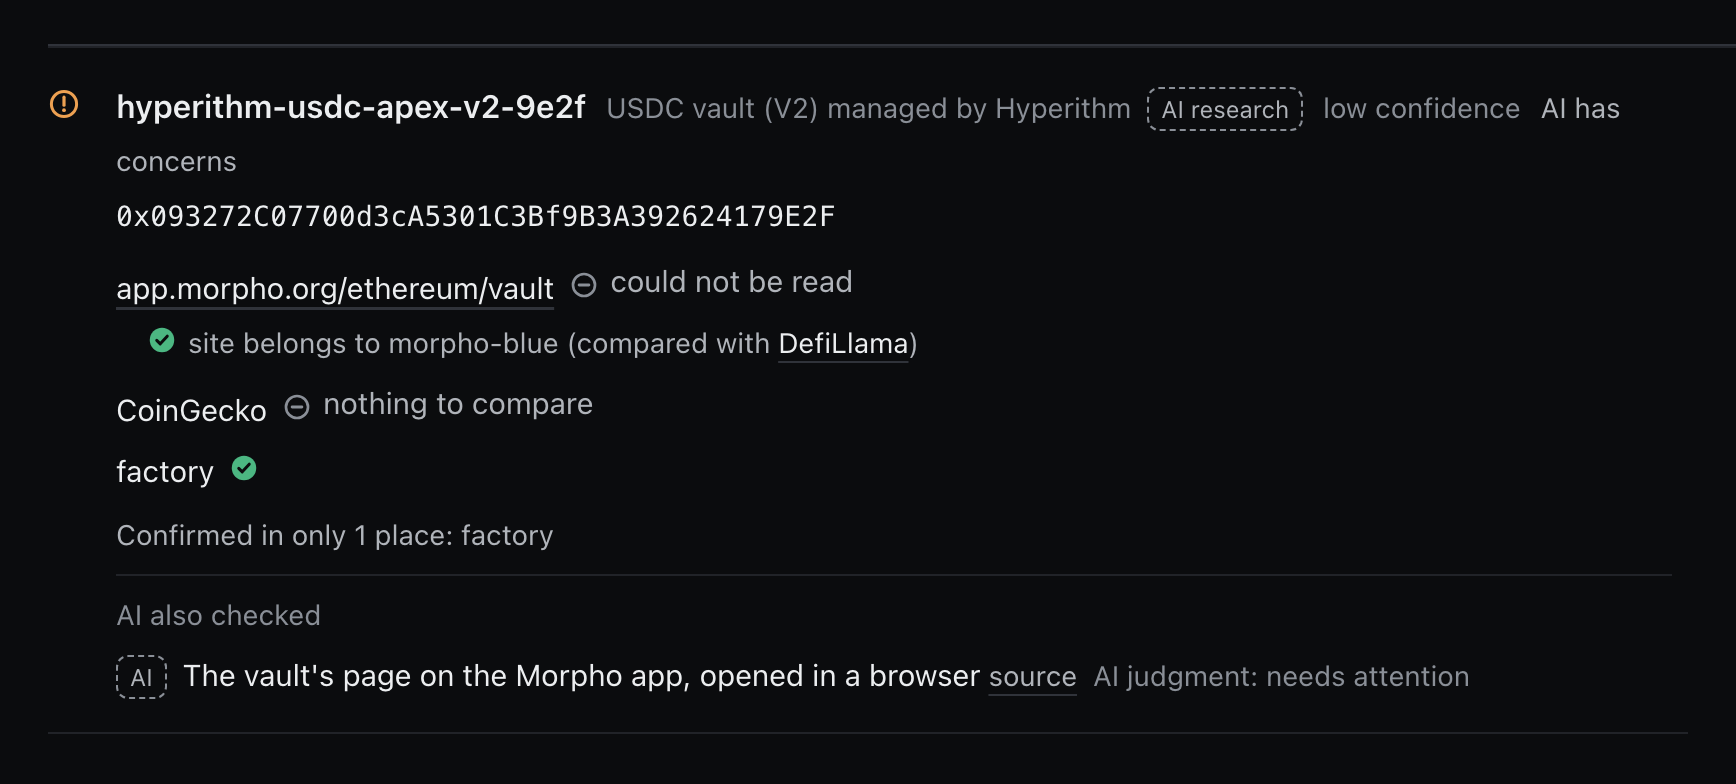
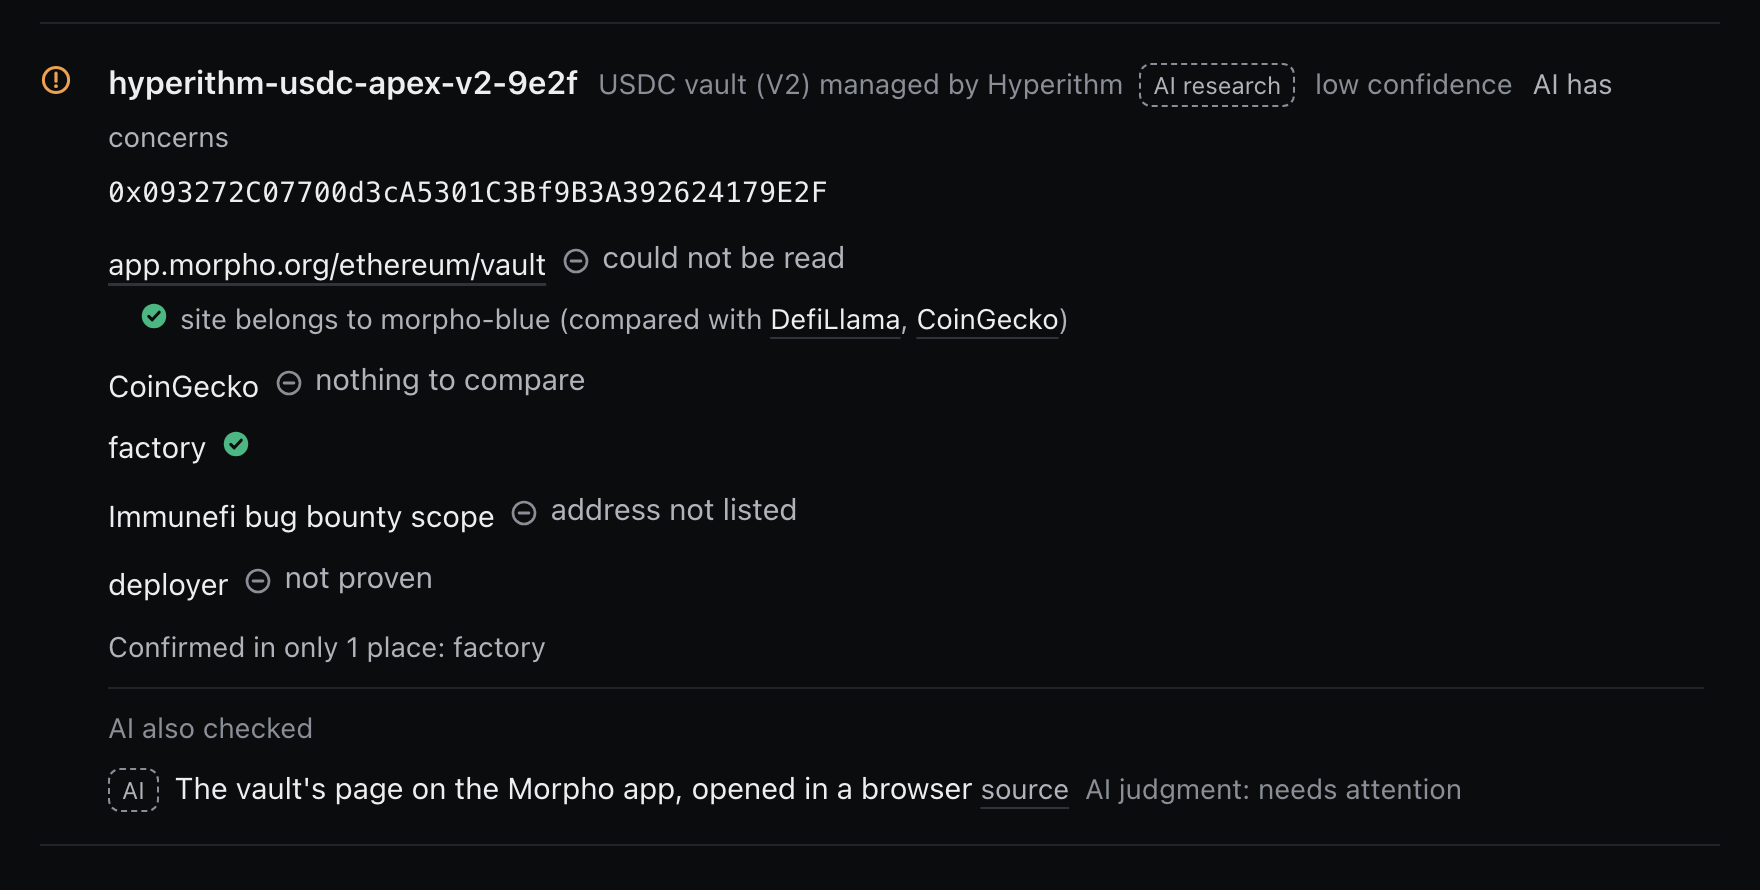
Reshoot the address crops from the reports recorded after #117

diff --git a/README.md b/README.md
@@ -100,13 +100,13 @@ The report shows what the transaction will do and where every fact came from. Te
 
 ![The fields of usdc.approve in the report: spender is fixed to general-adapter-1 with its full address, and value is the amount you fill in](docs/readme/report-fields.png)
 
-**Every address.** Where it was found, whether that site belongs to the protocol, and whether CoinGecko and the factory agree. This crop is from the Steakhouse vault's report.
+**Every address.** Each place it was found, whether that site belongs to the protocol, and whether the newest version still lists it. This crop is from the CoW swap report, where CoW's settlement contract is confirmed in five places.
 
-![An address the report confirmed in three places: the official page, whose site DefiLlama lists for the protocol, CoinGecko, and the factory](docs/readme/report-address.png)
+![An address the report confirmed in five places: two pages on CoW's GitHub, whose organization Immunefi ties to the protocol, each still listing it at the newest version; Immunefi's bug bounty scope; CoW's SDK on npm; and the deployer, which also deployed another confirmed CoW contract](docs/readme/report-address.png)
 
 Weak evidence is shown, not hidden. The Hyperithm vault was confirmed only by its factory, so the report flags it and lists it under To review (待確認 in the Traditional Chinese report), with the AI's suggestion: open the vault from the Morpho app's list, compare the address, and send a small amount first.
 
-![An address confirmed in only one place, flagged with low confidence](docs/readme/report-address-flagged.png)
+![An address confirmed in only one place, the factory, flagged with low confidence: the Morpho app page could not be read, CoinGecko had nothing to compare, Immunefi's scope does not list it, and no deployer was proven](docs/readme/report-address-flagged.png)
 
 This review happens once per operation, and once per vault. Merging is your confirmation. Then approve the template on your own computer, which records its hash so `verify` refuses any other version:
 
